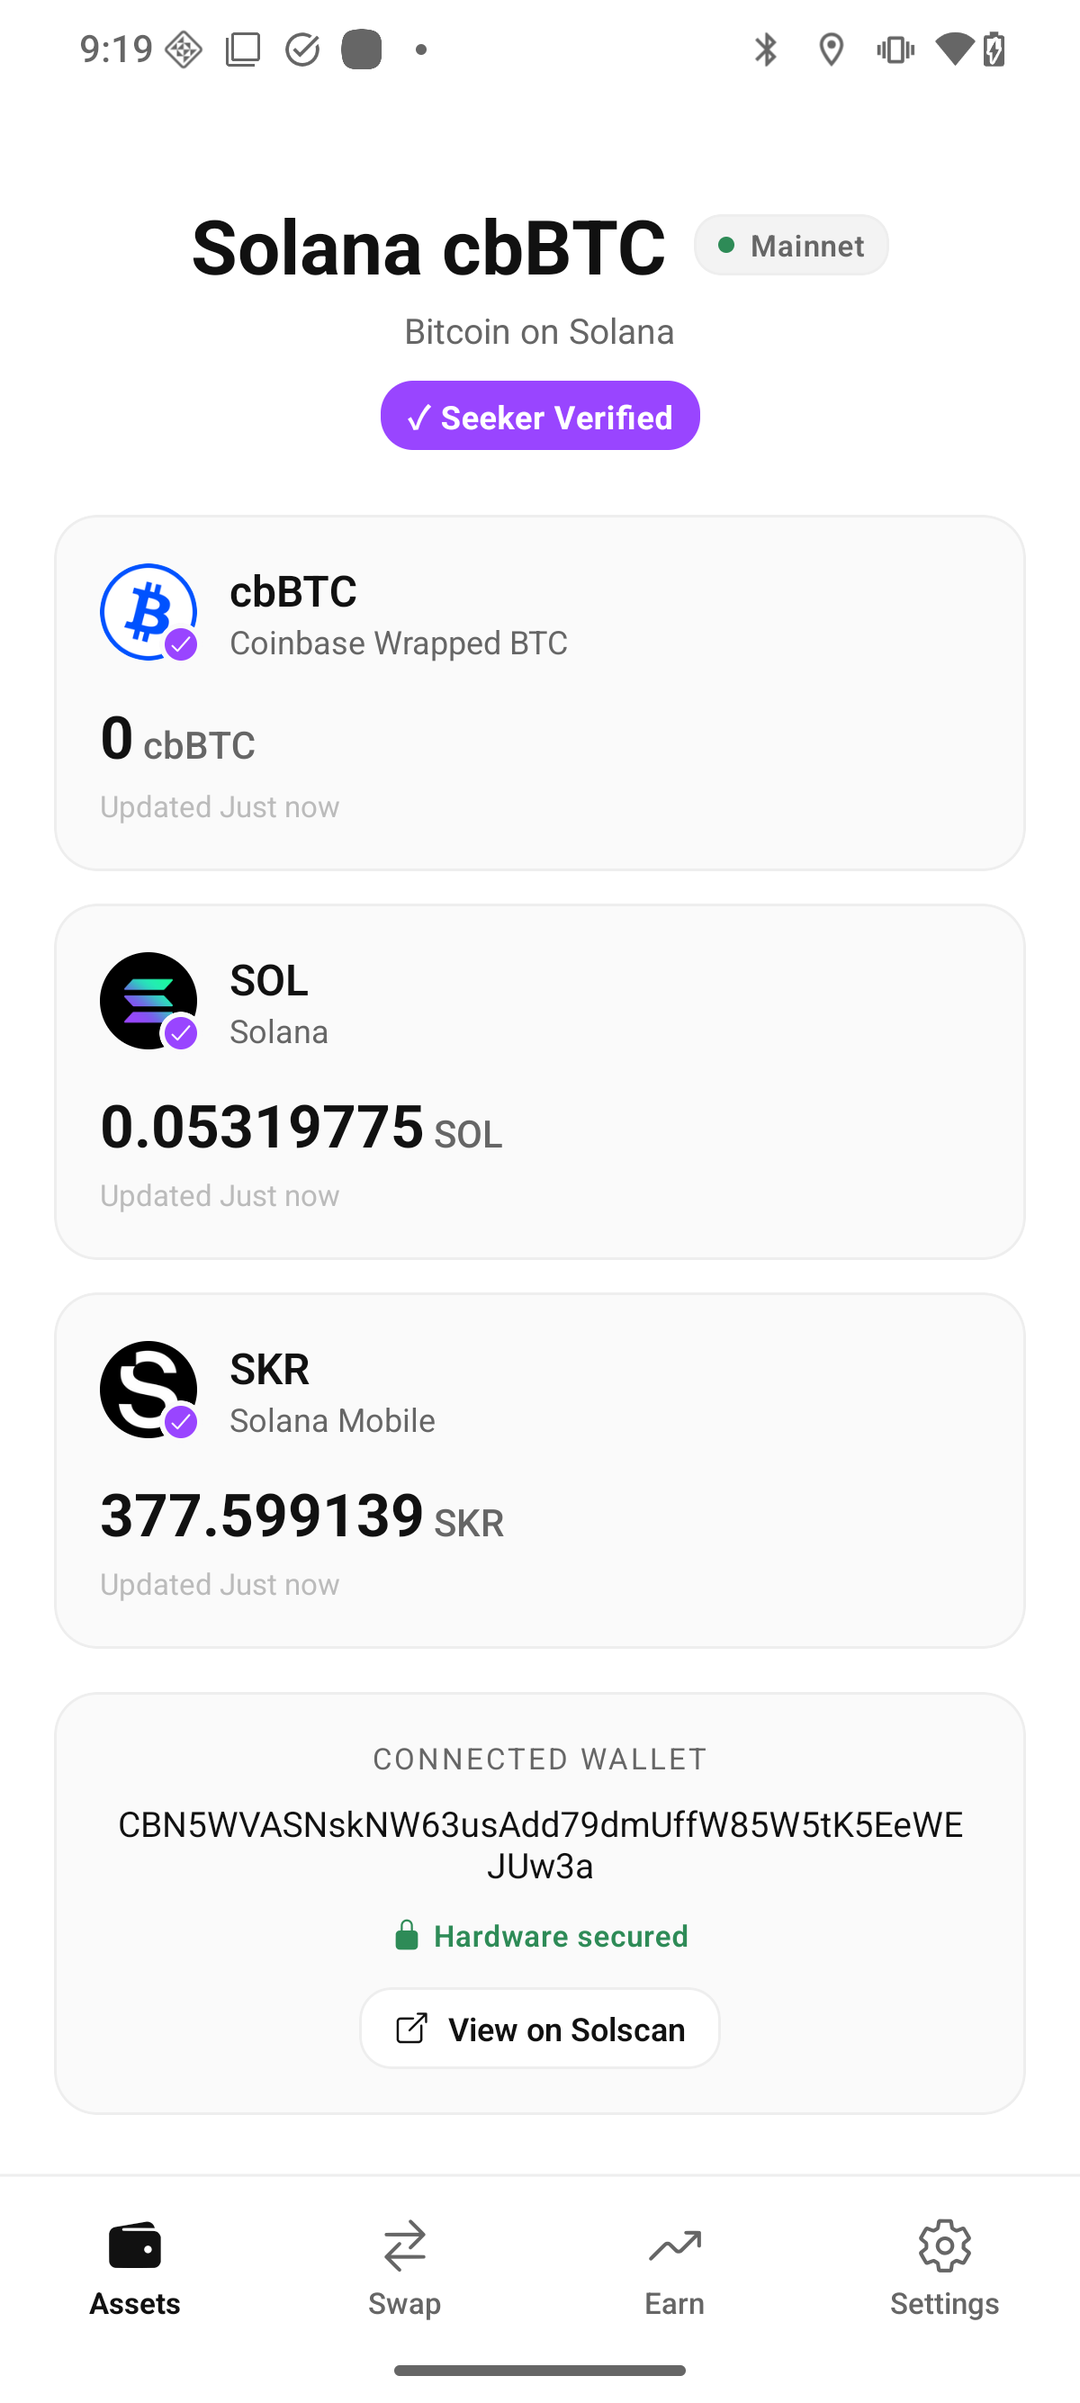
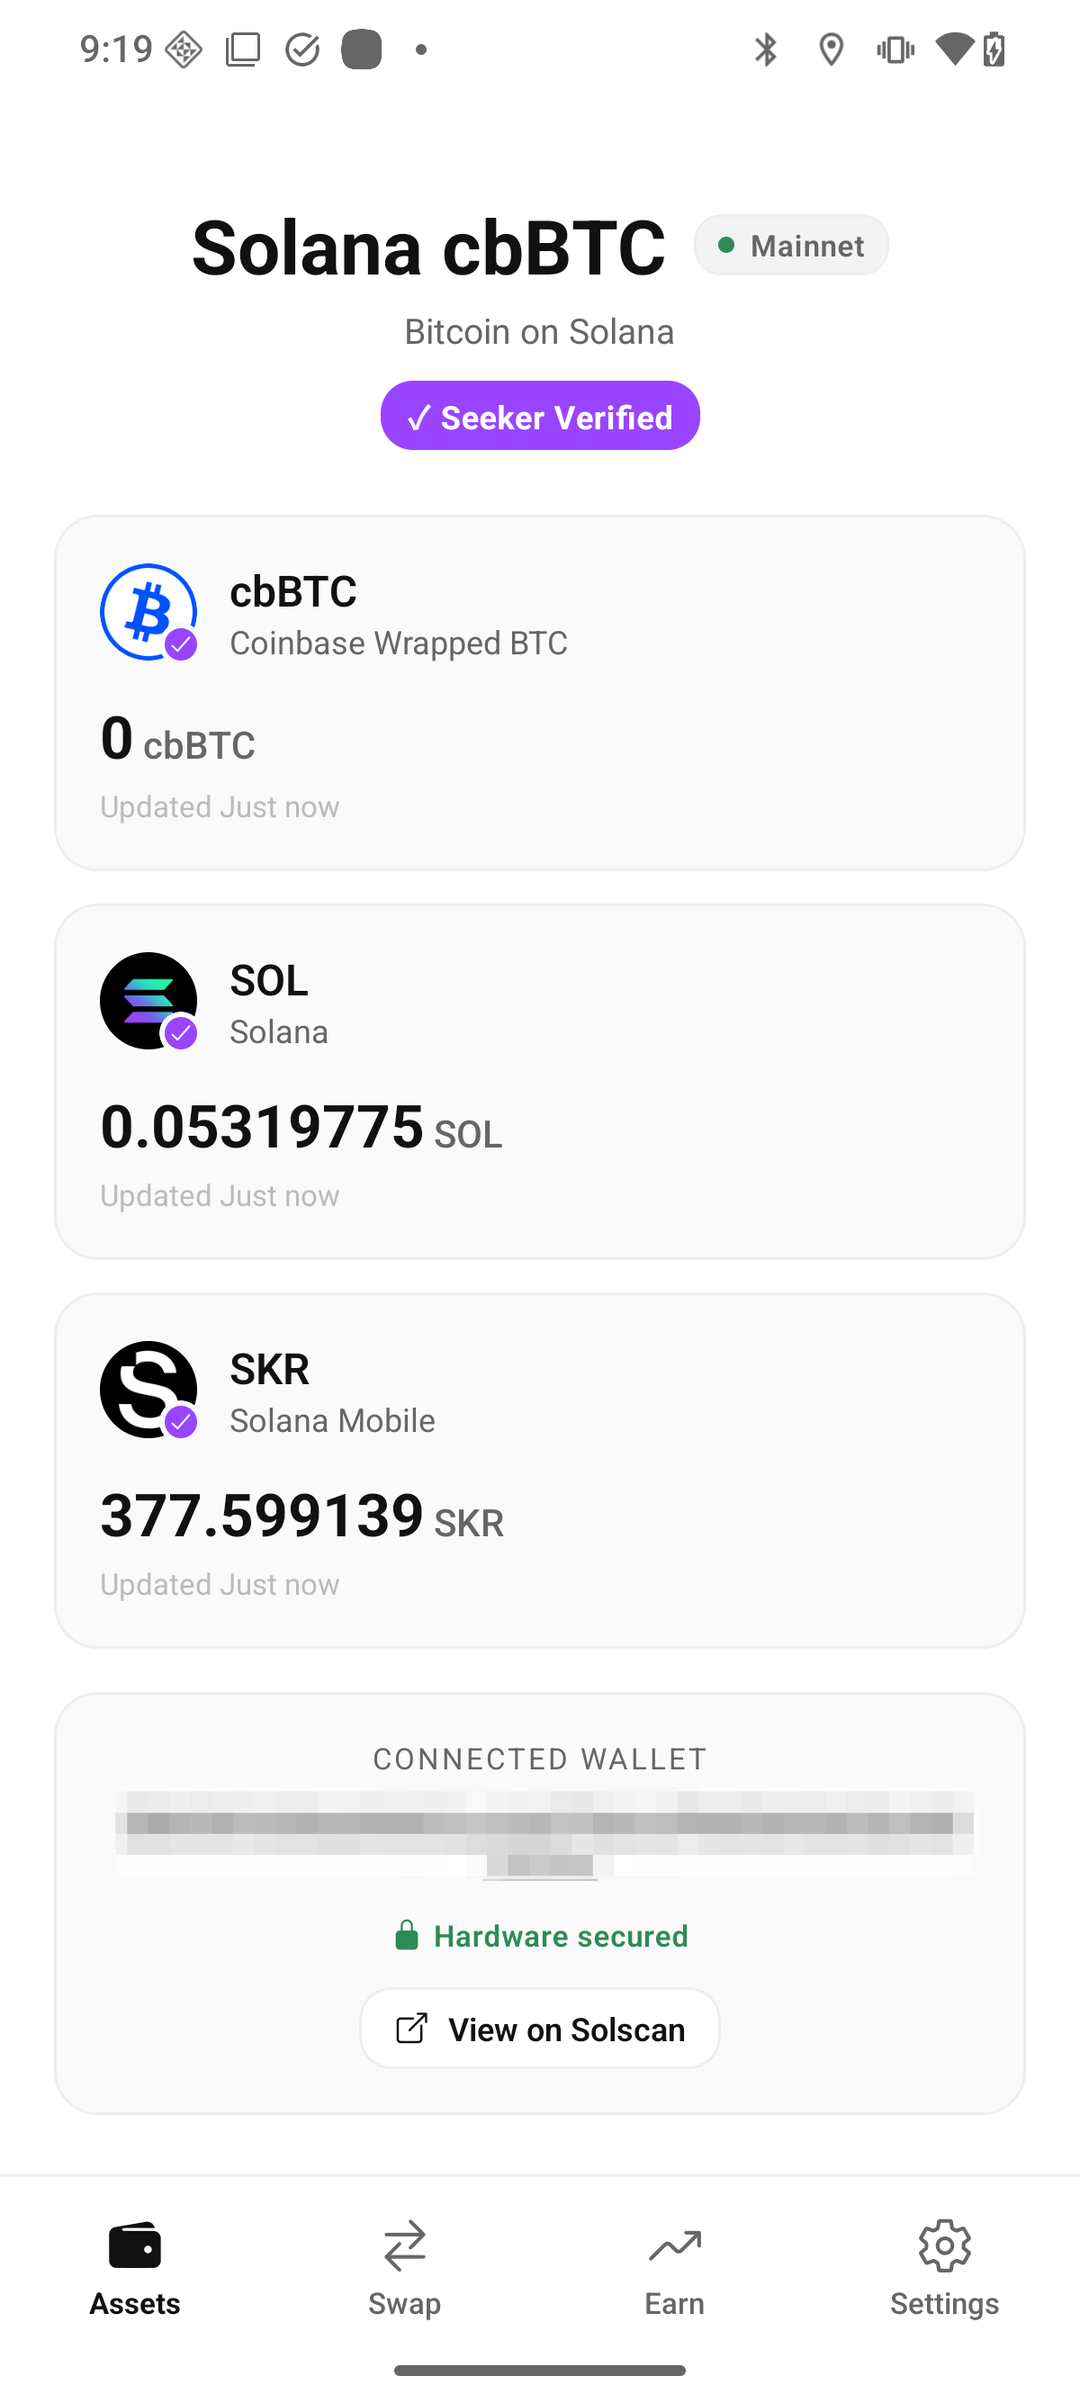
chore(release): bump to v0.2.2 (versionCode 14)
- app.json: version 0.2.1 -> 0.2.2, versionCode 13 -> 14
- STORE/metadata/release-notes.v0.2.2.md: ko + en What's New (history,
  USDC balance, dynamic version)
- STORE/assets/screenshot-1-home.png: refreshed Home capture showing the
  new USDC card

Changed region(s): [[0.0917, 0.7491, 0.9167, 0.7803]]

diff --git a/STORE/metadata/release-notes.v0.2.2.md b/STORE/metadata/release-notes.v0.2.2.md
@@ -1,0 +1,28 @@
+# Release notes — v0.2.2 (versionCode 14)
+
+dApp Store 제출 시 "release notes / What's new" 필드에 복사.
+v0.2.1(친절한 오류 안내) 대비 증분 업데이트 — Earn/Swap 거래 내역과 USDC 잔액 표시가 핵심.
+
+## 한국어 (ko)
+
+```
+v0.2.2 — 거래 내역 + USDC 잔액 한눈에
+
+• 거래 내역 추가 — 홈에 최근 활동, 설정에 전체 내역 (Swap·Earn 자동 분류, Solscan 딥링크)
+• 홈에 USDC 잔액 카드 추가 — cbBTC·SOL·USDC·SKR 한눈에
+• Repay 폼에 지갑 USDC 잔액 표시 — 상환 가능 금액 즉시 확인
+• 설정의 앱 버전 자동 동기화 — 매 릴리스에서 정확한 버전 노출
+• 비수탁 유지 — 자금·키는 Seed Vault, 백엔드·트래커 없음
+```
+
+## English (en)
+
+```
+v0.2.2 — Transaction history + USDC at a glance
+
+• New transaction history — Recent activity on Home, full list in Settings (auto-classified Swap/Earn, Solscan deep links)
+• USDC balance card on Home — cbBTC, SOL, USDC, and SKR side by side
+• Wallet USDC shown on Repay — see at a glance what you can repay
+• Settings now shows the live app version (auto-synced with each release)
+• Self-custody as always — keys stay in Seed Vault, no backend or trackers
+```
